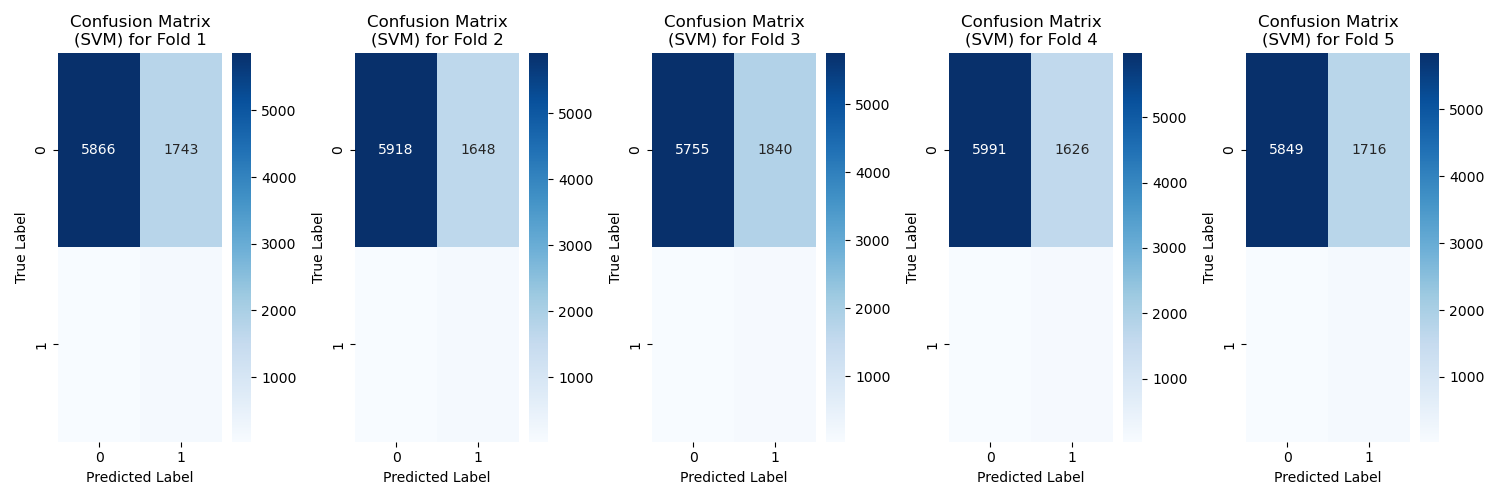
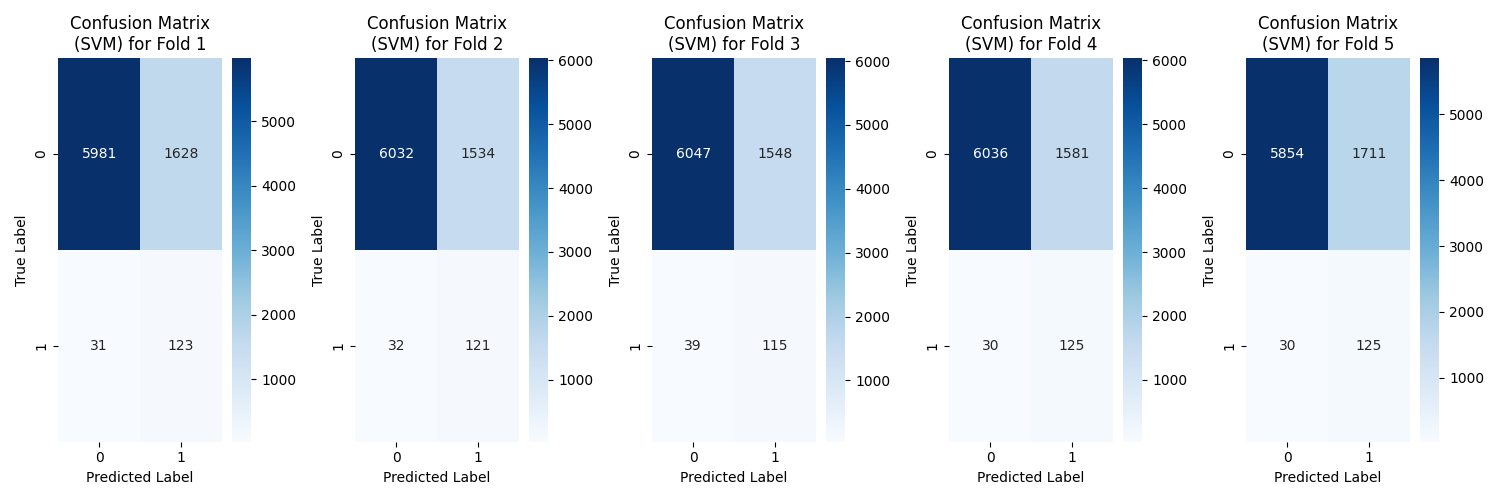
Feature selection mit bilder

diff --git a/Feature_Selection_2.py b/Feature_Selection_2.py
@@ -271,50 +271,40 @@ def everything(data, model,param, random,what):
         #grobe Feature Selection (Univariate feature selection --> jztmal die 45 besten auswählen --> da in allen 5 folds ungefähr die gleichen gut
         X_train_UVFS, UVFS_Selector = selection(X_train,y_train,mutual_info_classif,45,'auswertung',axs,title='entry')
         clf = model
-        if 'SVC' not in str(model):
-            #hier embedded Feature selection
-            #sel_ = SelectFromModel(clf).set_output(transform="pandas")
-            sel_ = SelectFromModel(clf)
-            sel_.fit(X_train_UVFS,y_train)
-            clf.fit(X_train_UVFS,y_train)
+        #hier embedded Feature selection
+        #sel_ = SelectFromModel(clf).set_output(transform="pandas")
+        sel_ = SelectFromModel(clf)
+        sel_.fit(X_train_UVFS,y_train)
+        clf.fit(X_train_UVFS,y_train)
 
 
-            #hier wenn ich Logistic Regression mache dass es die Feature importance (normalized) abspeichert um nachher ein barplot damit zu machen um die besten zu sehen
-            LR = 'LogisticRegression'
-            which_model = str(model)
-            if LR in which_model:
-                #this_LR_coefs = pd.DataFrame(zip(list(UVFS_Selector.get_feature_names_out()), np.transpose(clf.coef_[0])),columns=['features','coef'])
-                #LR_normcoef.loc[list(UVFS_Selector.get_feature_names_out()),fold] = this_LR_coefs['coef'].values/this_LR_coefs['coef'].abs().sum()
-                this_LR_coefs = pd.DataFrame(zip(X_train_UVFS.columns, np.transpose(clf.coef_[0])),columns=['features', 'coef'])
-                LR_normcoef.loc[X_train_UVFS.columns, fold] = this_LR_coefs['coef'].values / this_LR_coefs['coef'].abs().sum()
-            #sel_ = SelectFromModel(clf, prefit=True).set_output(transform="pandas")
-            #sel_.fit(X_train_UVFS,y_train)
+        #hier wenn ich Logistic Regression mache dass es die Feature importance (normalized) abspeichert um nachher ein barplot damit zu machen um die besten zu sehen
+        LR = 'LogisticRegression'
+        which_model = str(model)
+        if LR in which_model:
+            #this_LR_coefs = pd.DataFrame(zip(list(UVFS_Selector.get_feature_names_out()), np.transpose(clf.coef_[0])),columns=['features','coef'])
+            #LR_normcoef.loc[list(UVFS_Selector.get_feature_names_out()),fold] = this_LR_coefs['coef'].values/this_LR_coefs['coef'].abs().sum()
+            this_LR_coefs = pd.DataFrame(zip(X_train_UVFS.columns, np.transpose(clf.coef_[0])),columns=['features', 'coef'])
+            LR_normcoef.loc[X_train_UVFS.columns, fold] = this_LR_coefs['coef'].values / this_LR_coefs['coef'].abs().sum()
+        #sel_ = SelectFromModel(clf, prefit=True).set_output(transform="pandas")
+        #sel_.fit(X_train_UVFS,y_train)
 
-            X_train_L1 = sel_.transform(X_train_UVFS)
+        X_train_L1 = sel_.transform(X_train_UVFS)
 
-            X_test_UVFS = UVFS_Selector.transform(X_test)
-            selected_features.loc[fold, list(sel_.get_feature_names_out())] += 1
-            #selected_features.loc[fold, X_train_L1.columns] += 1
-            clf_L1 = model
-            clf_L1.fit(X_train_L1,y_train)
-            X_test_L1 = sel_.transform(X_test_UVFS)
+        X_test_UVFS = UVFS_Selector.transform(X_test)
+        selected_features.loc[fold, list(sel_.get_feature_names_out())] += 1
+        #selected_features.loc[fold, X_train_L1.columns] += 1
+        clf_L1 = model
+        clf_L1.fit(X_train_L1,y_train)
+        X_test_L1 = sel_.transform(X_test_UVFS)
 
-            #Performance evaluation
-            eval_metrics, cm = eval(y_test,X_test_L1,clf_L1,axs2[fold],legend_entry=str(fold+1),model_name = model_name)
-            performance.loc[len(performance),:] = [fold]+eval_metrics
-            confusion_matrices.append(cm)
+        #Performance evaluation
+        eval_metrics, cm = eval(y_test,X_test_L1,clf_L1,axs2[fold],legend_entry=str(fold+1),model_name = model_name)
+        performance.loc[len(performance),:] = [fold]+eval_metrics
+        confusion_matrices.append(cm)
 
-            fold+=1
-        else:
-            clf = model.fit(X_train, y_train)
-            y_pred = clf.predict(X_test)
+        fold+=1
 
-            # Performance Evaluation
-            eval_metrics, cm = eval(y_test, X_test, clf, axs2[fold],legend_entry=str(fold+1),model_name = model_name)
-            performance.loc[len(performance)] = [fold] + eval_metrics
-            confusion_matrices.append(cm)
-
-            fold += 1
     if what == 'hyperparameter':
         return tuning.value_counts().head(1)
     if what == 'feature selection':

diff --git a/SVM.py b/SVM.py
@@ -3,4 +3,4 @@ parameter = {'C': [0.01], 'kernel': ['linear']}
 from Feature_Selection_2 import *
 #print(everything(data, SVC(probability=True, class_weight='balanced'), svm_parameters, 1, 'hyperparameter').head(1))
 #best: C = 0.01, linear, fold 4
-everything(data, SVC(probability=True, class_weight='balanced'), parameter, 1, 'evaluation')
+everything(data, SVC(probability=True, class_weight='balanced',C=0.01, kernel='linear'), parameter, 1, 'evaluation')
